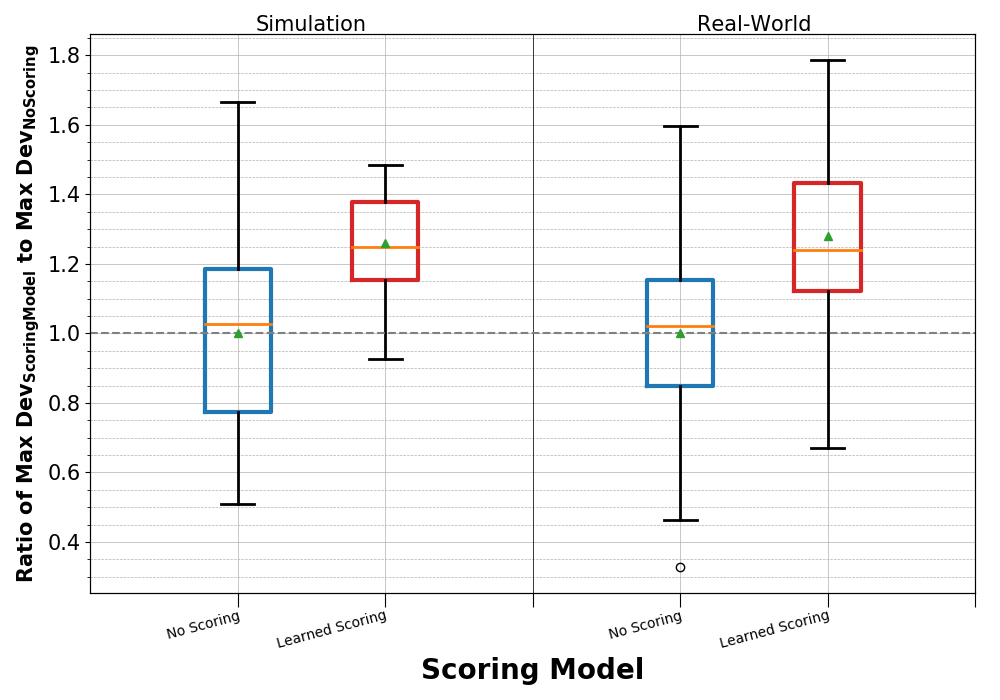
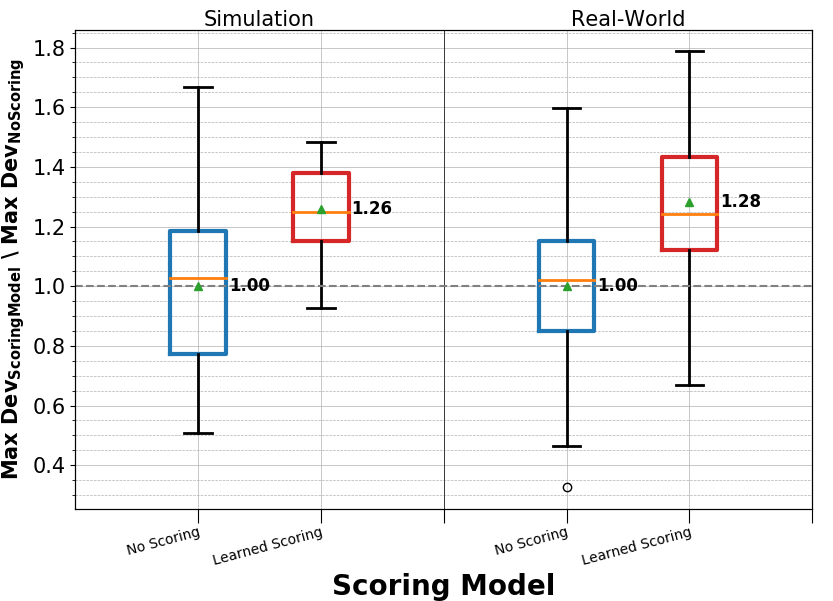
Updated the graphs

diff --git a/TestGeneration/AnalyzeResults/RQ3_ANAFI.py b/TestGeneration/AnalyzeResults/RQ3_ANAFI.py
@@ -15,15 +15,21 @@ def set_box_color(bp, color):
     plt.setp(bp['caps'], linewidth=2)
     plt.setp(bp['medians'], linewidth=2)
     # plt.setp(bp['fliers'], linewidth=3)
-    # plt.setp(bp['means'], linewidth=3)
+    plt.setp(bp['means'], linewidth=3)
 
 
 def add_values(bp, ax, left=False):
     """ This actually adds the numbers to the various points of the boxplots"""
-    for element in ['whiskers', 'medians', 'caps']:
+    for element in ['means']:
         for line in bp[element]:
             # Get the position of the element. y is the label you want
-            (x_l, y),(x_r, _) = line.get_xydata()
+            x_r, x_l, y = 0, 0, 0
+            if element == "means":
+                a = line.get_xydata()[0]
+                x_r = a[0]
+                y = a[1]
+            else:
+                (x_l, y),(x_r, _) = line.get_xydata()
             # Make sure datapoints exist
             # (I've been working with intervals, should not be problem for this case)
             if not np.isnan(y):
@@ -33,15 +39,16 @@ def add_values(bp, ax, left=False):
                     else:
                         x_line_center = x_l - (x_r - x_l)
                     if element == 'whiskers':
-                        x_line_center = x_r
+                        x_line_center = x_r                   
                 else:
-                    x_line_center = x_r
+                    x_line_center = x_r + 0.25
                 y_line_center = y  # Since it's a line and it's horisontal
                 # overlay the value:  on the line, from center to right
                 ax.text(x_line_center, y_line_center, # Position
-                        '%.3f' % y, # Value (3f = 3 decimal float)
+                        '%.2f' % y, # Value (3f = 3 decimal float)
                         verticalalignment='center', # Centered vertically with line
-                        fontsize=10, backgroundcolor="white")
+                        fontsize=12,
+                        fontweight='bold')
 
 
 
@@ -221,10 +228,12 @@ plt.axvline(x=3, color='black', linestyle='-', linewidth=0.5)
 
 bp1_pos = positions=3*np.arange(len(randomscore_results))+1
 bp1 = plt.boxplot(randomscore_results, positions=bp1_pos, showmeans=True)
+add_values(bp1, ax1)
 # annotate_boxplot(bp1, positions=bp1_pos, text="No Scoring")
 
 bp2_pos = positions=3*np.arange(len(learnedscore_results))+2
 bp2 = plt.boxplot(learnedscore_results, positions=bp2_pos, showmeans=True)
+add_values(bp2, ax1)
 # annotate_boxplot(bp2, positions=bp2_pos, text="Learned Scoring")
 
 # Add colors

diff --git a/TestGeneration/AnalyzeResults/RQ3_MIT.py b/TestGeneration/AnalyzeResults/RQ3_MIT.py
@@ -16,10 +16,16 @@ def set_box_color(bp, color):
 
 def add_values(bp, ax, left=False):
     """ This actually adds the numbers to the various points of the boxplots"""
-    for element in ['whiskers', 'medians', 'caps']:
+    for element in ['means']:
         for line in bp[element]:
             # Get the position of the element. y is the label you want
-            (x_l, y),(x_r, _) = line.get_xydata()
+            x_r, x_l, y = 0, 0, 0
+            if element == "means":
+                a = line.get_xydata()[0]
+                x_r = a[0]
+                y = a[1]
+            else:
+                (x_l, y),(x_r, _) = line.get_xydata()
             # Make sure datapoints exist
             # (I've been working with intervals, should not be problem for this case)
             if not np.isnan(y):
@@ -29,15 +35,16 @@ def add_values(bp, ax, left=False):
                     else:
                         x_line_center = x_l - (x_r - x_l)
                     if element == 'whiskers':
-                        x_line_center = x_r
+                        x_line_center = x_r                   
                 else:
-                    x_line_center = x_r
+                    x_line_center = x_r + 0.25
                 y_line_center = y  # Since it's a line and it's horisontal
                 # overlay the value:  on the line, from center to right
                 ax.text(x_line_center, y_line_center, # Position
-                        '%.3f' % y, # Value (3f = 3 decimal float)
+                        '%.2f' % y, # Value (3f = 3 decimal float)
                         verticalalignment='center', # Centered vertically with line
-                        fontsize=10, backgroundcolor="white")
+                        fontsize=12,
+                        fontweight='bold')
 
 
 

diff --git a/TestGeneration/AnalyzeResults/RQ3_Comparison.py b/TestGeneration/AnalyzeResults/RQ3_Comparison.py
@@ -310,7 +310,7 @@ for i in range(len(w_pos1[:, 2])):
     x = w_pos1[:, 0][i]
     y = -1*w_pos1[:, 1][i]
     z = w_pos1[:, 2][i]
-    ax.text(x +1, y -1, z  , i+1, fontsize=12)
+    ax.text(x +1, y -1, z  , i+1, fontsize=13, fontweight='bold')
 
 ax.set_xlim([0, 30])
 ax.set_ylim([0, 30])
@@ -345,7 +345,7 @@ plt.plot(d_pos_sim1[:, 0], -1*d_pos_sim1[:, 1], color='C1', linewidth=2, linesty
 for i in range(len(w_pos1[:, 2])):
     x = w_pos1[:, 0][i]
     y = -1*w_pos1[:, 1][i]
-    plt.text(x + 1 ,y - 1 , i+1, fontsize=12)
+    plt.text(x + 1 ,y - 1 , i+1, fontsize=13, fontweight='bold')
 
 plt.xlim([0, 35])
 plt.ylim([0, 35])
@@ -375,7 +375,7 @@ plt.plot(d_pos_sim1[:, 0], d_pos_sim1[:, 2]-shift_down, color='C1', linestyle="-
 for i in range(len(w_pos1[:, 2])):
     x = w_pos1[:, 0][i]
     y = w_pos1[:, 2][i]
-    plt.text(x + 1 ,y - 1 , i+1, fontsize=12)
+    plt.text(x + 1 ,y - 1 , i+1, fontsize=13, fontweight='bold')
 
 plt.xlim([0, 35])
 plt.ylim([0, 35])
@@ -407,7 +407,7 @@ plt.plot(-1*d_pos_sim1[:, 1], d_pos_sim1[:, 2]-shift_down, color='C1', linestyle
 for i in range(len(w_pos1[:, 2])):
     x = -1*w_pos1[:, 1][i]
     y = w_pos1[:, 2][i]
-    plt.text(x + 1 ,y - 1 , i+1, fontsize=12)
+    plt.text(x + 1 ,y - 1 , i+1, fontsize=13, fontweight='bold')
 
 plt.xlim([0, 35])
 plt.ylim([0, 35])

diff --git a/TestGeneration/AnalyzeResults/RQ2.py b/TestGeneration/AnalyzeResults/RQ2.py
@@ -583,12 +583,6 @@ for i in range(0,4):
     mean = np.mean(randomscore_results[i])
     print("Mean Deviation for Random:\t" + str(mean))
 
-    randomscore_results[i] = randomscore_results[i] / mean
-    edgecore_results[i] = edgecore_results[i] / mean
-    edge90score_results[i] = edge90score_results[i] / mean
-    edge180score_results[i] = edge180score_results[i] / mean
-    learnedscore_results[i] = learnedscore_results[i] / mean
-
     print("Ratio High Velocity:\t\t" + str(np.mean(edgecore_results[i])))
     print("Ratio High Velocity + 90:\t" + str(np.mean(edge90score_results[i])))
     print("Ratio High Velocity + 180:\t" + str(np.mean(edge180score_results[i])))
